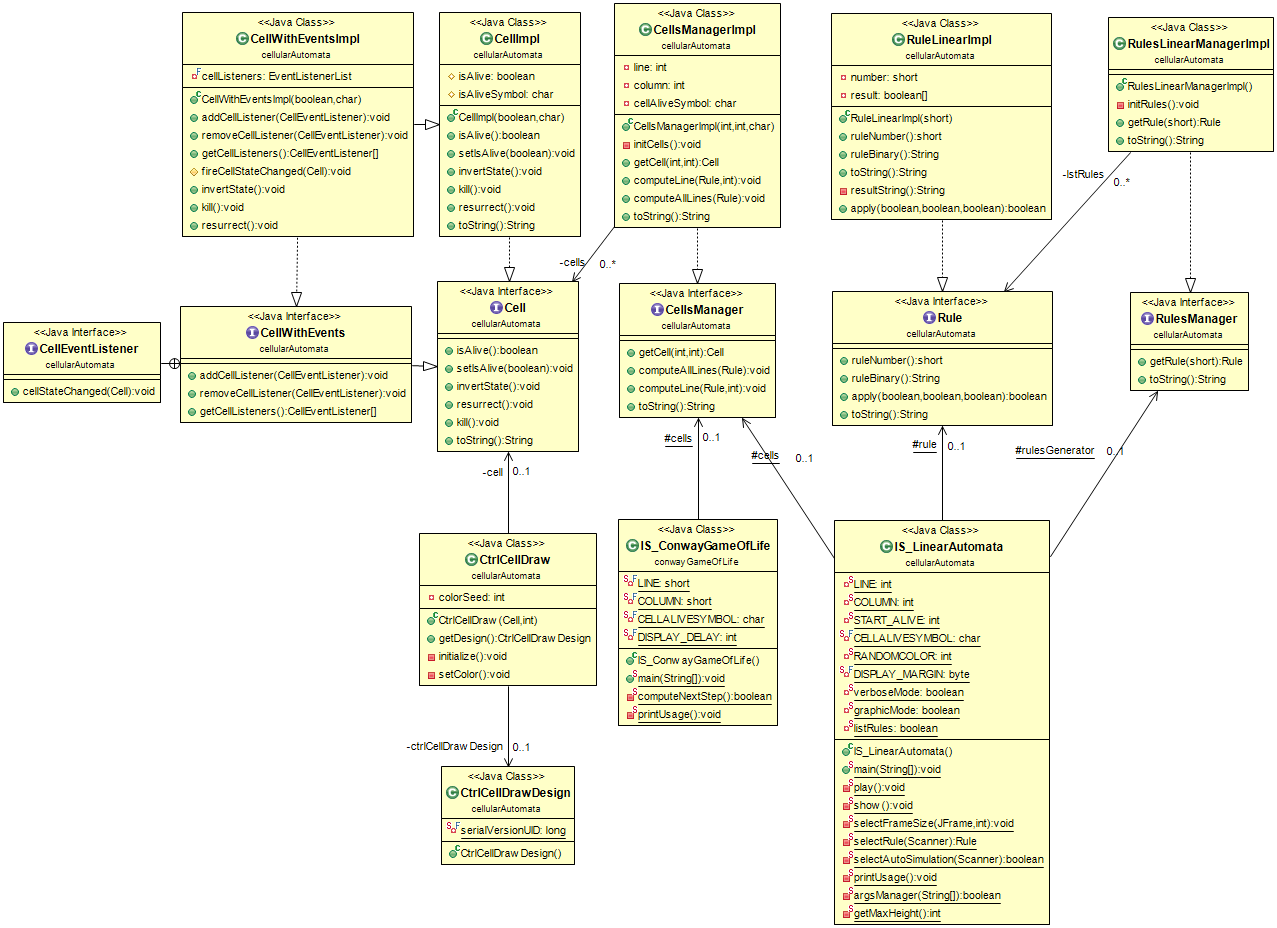
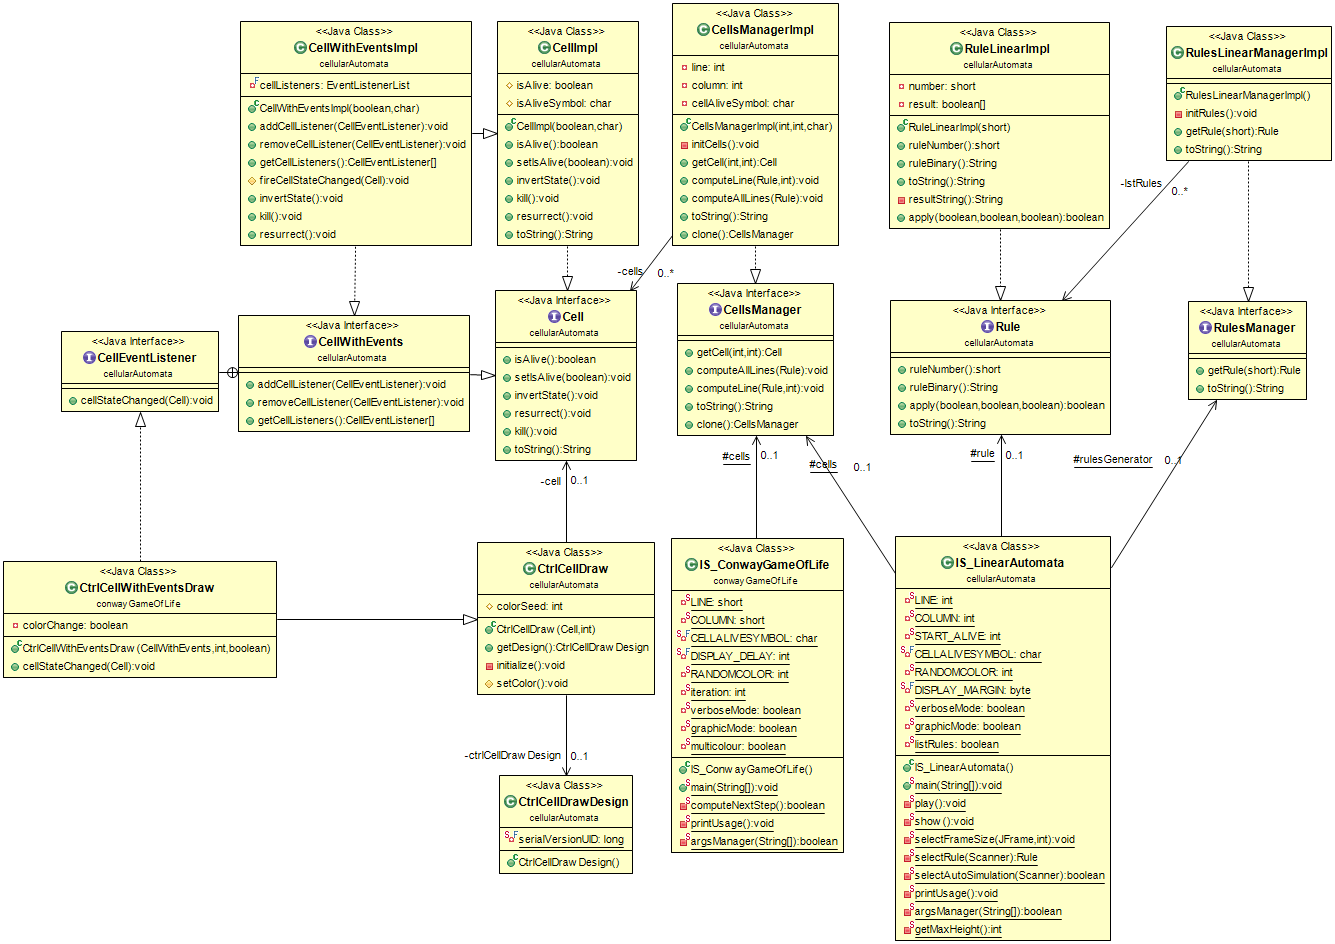
Conway's GameOfLife
Windows Mode

diff --git a/src/conwayGameOfLife/IS_ConwayGameOfLife.java b/src/conwayGameOfLife/IS_ConwayGameOfLife.java
@@ -1,88 +1,183 @@
 
 package conwayGameOfLife;
 
+import java.awt.Color;
+import java.awt.GridLayout;
+import java.util.Random;
+
+import javax.swing.JFrame;
+import javax.swing.JPanel;
+
+import cellularAutomata.CellWithEvents;
 import cellularAutomata.CellsManager;
 import cellularAutomata.CellsManagerImpl;
 
 public class IS_ConwayGameOfLife {
 
-	private static final short LINE = 40;
-	private static final short COLUMN = 80;
+	private static short LINE = 150;//40;
+	private static short COLUMN = 200;//80;
 		
 	private static final char CELLALIVESYMBOL = '0';
 	private static final int DISPLAY_DELAY = 300; 	
+	private static int RANDOMCOLOR = new Random().nextInt(0xFFFFFF);
+	
+	private static int iteration = 0; 	
+	private static boolean verboseMode = false;
+	private static boolean graphicMode = true;
+	private static boolean multicolour = false;
 	
 	protected static CellsManager cells;
 	
 	
 	public static void main(String[] args){
 		printUsage();
+		argsManager(args);
+		
 		cells = new CellsManagerImpl(LINE, COLUMN, CELLALIVESYMBOL);
 		
+		JFrame frame = new JFrame();	
+		if(graphicMode){
+			//////////////////////////////
+			/// JFrame design
+			frame.setTitle("Linear automata - loading...");
+			frame.setSize(630, 500);
+			frame.setLocationRelativeTo(null);
+			frame.setDefaultCloseOperation(JFrame.EXIT_ON_CLOSE);
+			
+			JPanel pan = new JPanel();
+			pan.setLayout(new GridLayout(0,COLUMN));
+			pan.setBackground(Color.black);
+			
+			frame.setContentPane(pan);
+			frame.getFocusOwner();
+			frame.setVisible(true);
+			frame.setAlwaysOnTop(true);
+			frame.setAlwaysOnTop(false);
+			frame.validate();
+			//////////////////////////////
+			///add cells
+			for(int loadingLine=0; loadingLine<LINE;loadingLine++){
+				for(int c=0; c<COLUMN; c++){
+					pan.add(new CtrlCellWithEventsDraw((CellWithEvents) cells.getCell(loadingLine,c), RANDOMCOLOR, multicolour).getDesign());
+				}
+				frame.setTitle("Conway'sGameOfLife - [" + (loadingLine*100)/LINE + "% loading...]");
+				frame.validate();
+			}
+		}
 		for(int l=0; l<LINE; l++)
 			cells.getCell(l,COLUMN-1).resurrect();
 		for(int c=0; c<COLUMN;c++)
-			cells.getCell(LINE-1,c).resurrect();
-				
-		int iterationCount = 0;
-		System.out.println("Iteration n°" + iterationCount + " =====================================================================");
-		System.out.println(cells.toString());
+			cells.getCell(0,c).resurrect();
 		
-		while(computeNextStep()){
+		int iterationCount = 0;
+		if(graphicMode){
+			frame.setTitle("Conway'sGameOfLife - " + iterationCount + " iterations");
+			frame.repaint();
+		}
+		
+		if(verboseMode){
+			System.out.println("Iteration n°" + iterationCount + " =====================================================================");
+			System.out.println(cells.toString());
+		}
+		while((iteration==0 && computeNextStep()) || (iterationCount < iteration && computeNextStep())){
+			iterationCount++;
+			if(graphicMode)
+				frame.setTitle("Conway'sGameOfLife - " + iterationCount + " iterations");
 			try {
 				Thread.sleep(DISPLAY_DELAY);
 			} catch (InterruptedException e) {
 				e.printStackTrace();
 			}
-			iterationCount++;
-			System.out.println("Iteration n°" + iterationCount+ " =====================================================================");
-			System.out.println(cells.toString());
+			if(verboseMode){
+				System.out.println("Iteration n°" + iterationCount+ " =====================================================================");
+				System.out.println(cells.toString());
+			}
 		}
 	}
 	
 	private static boolean computeNextStep(){
 		boolean stateChanged = false;
-		CellsManager computedCells = new CellsManagerImpl(LINE, COLUMN, CELLALIVESYMBOL);
+		
+		CellsManager computationCells = cells.clone();
+		
 		for(int l=0; l<LINE; l++){
 			for(int c=0; c<COLUMN;c++){
 				byte cellAliveCount = 0;
-				if(cells.getCell((l-1 + LINE) % LINE,(c-1 + COLUMN) % COLUMN).isAlive())
+				if(computationCells.getCell((l-1 + LINE) % LINE,(c-1 + COLUMN) % COLUMN).isAlive())
 					cellAliveCount++;
-				if(cells.getCell((l-1 + LINE) % LINE,c).isAlive())
+				if(computationCells.getCell((l-1 + LINE) % LINE,c).isAlive())
 					cellAliveCount++;
-				if(cells.getCell((l-1 + LINE) % LINE,(c+1 + COLUMN) % COLUMN).isAlive())
+				if(computationCells.getCell((l-1 + LINE) % LINE,(c+1 + COLUMN) % COLUMN).isAlive())
 					cellAliveCount++;
-				if(cells.getCell(l,(c-1 + COLUMN) % COLUMN).isAlive())
+				if(computationCells.getCell(l,(c-1 + COLUMN) % COLUMN).isAlive())
 					cellAliveCount++;
-				if(cells.getCell(l,(c+1 + COLUMN) % COLUMN).isAlive())
+				if(computationCells.getCell(l,(c+1 + COLUMN) % COLUMN).isAlive())
 					cellAliveCount++;
-				if(cells.getCell((l+1 + LINE) % LINE,(c-1 + COLUMN) % COLUMN).isAlive())
+				if(computationCells.getCell((l+1 + LINE) % LINE,(c-1 + COLUMN) % COLUMN).isAlive())
 					cellAliveCount++;
-				if(cells.getCell((l+1 + LINE) % LINE,c).isAlive())
+				if(computationCells.getCell((l+1 + LINE) % LINE,c).isAlive())
 					cellAliveCount++;
-				if(cells.getCell((l+1 + LINE) % LINE,(c+1 + COLUMN) % COLUMN).isAlive())
+				if(computationCells.getCell((l+1 + LINE) % LINE,(c+1 + COLUMN) % COLUMN).isAlive())
 					cellAliveCount++;
 				
-				if(cells.getCell(l,c).isAlive())
+				if(computationCells.getCell(l,c).isAlive())
 					if(cellAliveCount<2 || cellAliveCount>3){
-						computedCells.getCell(l,c).kill();
+						cells.getCell(l,c).kill();
 						stateChanged = true;
 					}else
-						computedCells.getCell(l,c).setIsAlive(true);
+						cells.getCell(l,c).setIsAlive(true);
 				else if(cellAliveCount == 3){
-						computedCells.getCell(l,c).resurrect();
+						cells.getCell(l,c).resurrect();
 						stateChanged = true;
 				}
 			}
 		}
-		cells = computedCells;
 		return stateChanged;
 	}
+	
 	private static void printUsage() {
-		System.out.println("\n              =====================================================");
-		System.out.println("              |=============| Conway's game of life |=============|");
-		System.out.println("              |===================================================|");
-		System.out.println("              |===========================| By : Timothée SOLLAUD |");
-		System.out.println("              =====================================================\n");
+		System.out.println("\n              ===========================================================");
+		System.out.println("              |================| Conway's game of life |================|");
+		System.out.println("              |=========================================================|");
+		System.out.println("              |                                                         |");
+		System.out.println("              | usage   : program iteration verbose console multicolour |");
+		System.out.println("              | default : conwayGameOfLife.IS_ConwayGameOfLife          |");
+		System.out.println("              |                                                         |");
+		System.out.println("              |=========================================================|");
+		System.out.println("              | Parameters details :                                    |");
+		System.out.println("              |  >>> iteration : integer (0 = infinite)                 |");
+		System.out.println("              |  >>> verbose mode : -v                                  |");
+		System.out.println("              |  >>> console mode (no window) : -c                      |");
+		System.out.println("              |  >>> multicolour : -m                                   |");
+		System.out.println("              |                                                         |");
+		System.out.println("              |=========================================================|");
+		System.out.println("              |=================================| By : Timothée SOLLAUD |");
+		System.out.println("              ===========================================================\n");
+	}
+	
+	private static boolean argsManager(String[] args) {
+		boolean argsFound = false;
+		String regexArgIteration = "^\\d+$";
+		if (args.length>0){
+			for(int i=0; i<args.length; ++i)
+				if (args[i].matches(regexArgIteration)){
+					iteration = Integer.parseInt(args[i]);
+					argsFound = true;
+				}else if (args[i].compareToIgnoreCase("-m")==0){
+					multicolour = true;
+					argsFound = true;
+				}else if (args[i].compareToIgnoreCase("-v")==0){
+					verboseMode = true;
+					argsFound = true;
+				}else if (args[i].compareToIgnoreCase("-c")==0){
+					graphicMode = false;
+					LINE = 20;
+					COLUMN = 40;
+					argsFound = true;
+				}
+		}
+		verboseMode = verboseMode || (!graphicMode && !verboseMode);
+		
+		return argsFound;
 	}
 }

diff --git a/src/conwayGameOfLife/CtrlCellWithEventsDraw.java b/src/conwayGameOfLife/CtrlCellWithEventsDraw.java
@@ -1,0 +1,28 @@
+package conwayGameOfLife;
+
+import java.util.Random;
+
+import cellularAutomata.Cell;
+import cellularAutomata.CellWithEvents;
+import cellularAutomata.CellWithEvents.CellEventListener;
+import cellularAutomata.CtrlCellDraw;
+
+
+public class CtrlCellWithEventsDraw extends CtrlCellDraw implements CellEventListener {
+	private boolean colorChange = false;
+
+	public CtrlCellWithEventsDraw(CellWithEvents cell, int colorSeed, boolean colorChange) {
+		super(cell, colorSeed);
+		this.colorChange = colorChange;
+		cell.addCellListener(this);
+	}
+	
+	@Override
+	public void cellStateChanged(Cell c) {
+		if(colorChange)
+			super.colorSeed = new Random().nextInt(0xFFFFFF);
+		
+		super.setColor();
+	}
+
+}

diff --git a/src/cellularAutomata/CellsManagerImpl.java b/src/cellularAutomata/CellsManagerImpl.java
@@ -47,6 +47,7 @@ public class CellsManagerImpl implements CellsManager {
 			computeLine(rule, l);
 	}
 	
+	@Override
 	public String toString(){
 		StringBuffer stb =new StringBuffer();
 		for(int l=0; l<line; l++){
@@ -57,5 +58,12 @@ public class CellsManagerImpl implements CellsManager {
 		return stb.toString();
 	}
 
-	
+	@Override
+	public CellsManager clone(){
+		CellsManager clone = new CellsManagerImpl(this.line,this.column,this.cellAliveSymbol);
+		for(int l=0; l<line; l++)
+			for(int c=0; c<column;c++)
+				clone.getCell(l,c).setIsAlive(this.cells[l][c].isAlive());
+		return clone;
+	}
 }

diff --git a/src/cellularAutomata/IS_LinearAutomata.java b/src/cellularAutomata/IS_LinearAutomata.java
@@ -88,7 +88,7 @@ public class IS_LinearAutomata {
 			///add cells
 			for(int loadingLine=0; loadingLine<LINE; loadingLine++){
 				for(int c=0; c<COLUMN; c++){
-					frame.getContentPane().add(new CtrlCellDraw(cells.getCell(loadingLine,c), RANDOMCOLOR).getDesign());
+					pan.add(new CtrlCellDraw(cells.getCell(loadingLine,c), RANDOMCOLOR).getDesign());
 				}
 				frame.setTitle("Linear automata - [" + (loadingLine*100)/LINE + "% loading...] - " + loadingLine + " iterations with rule \"" + rule.ruleNumber() + "\", color seed = " + RANDOMCOLOR);
 				selectFrameSize(frame,loadingLine);

diff --git a/src/cellularAutomata/CtrlCellDraw.java b/src/cellularAutomata/CtrlCellDraw.java
@@ -7,7 +7,7 @@ public class CtrlCellDraw {
 	
 	private Cell cell;
 	private CtrlCellDrawDesign ctrlCellDrawDesign;
-	private int colorSeed = 0;
+	protected int colorSeed = 0;
 	
 	public CtrlCellDraw(Cell cell, int colorSeed) {
 		this.cell =  cell;
@@ -28,7 +28,7 @@ public class CtrlCellDraw {
 	////////////////////////////////////////////////////////
 	// Function linked with design
 	//
-	private void setColor(){
+	protected void setColor(){
 		if(cell.isAlive()){
 			this.ctrlCellDrawDesign.setBackground(new Color(colorSeed));
 		}else{

diff --git a/src/cellularAutomata/CellsManager.java b/src/cellularAutomata/CellsManager.java
@@ -1,11 +1,12 @@
 package cellularAutomata;
 
-public interface CellsManager {
+public interface CellsManager extends Cloneable{
 	
 	public Cell getCell(int l,int c);
 	public void computeAllLines (Rule rule);
 	public void computeLine (Rule rule, int line);
 	
 	public String toString();
+	public CellsManager clone();
 	
 }

diff --git a/src/cellularAutomata/CtrlCellDrawDesign.java b/src/cellularAutomata/CtrlCellDrawDesign.java
@@ -11,5 +11,6 @@ public class CtrlCellDrawDesign extends JPanel{
 
 	public CtrlCellDrawDesign() {
 		this.setOpaque(true);
+		this.setVisible(true);
 	}
 }
